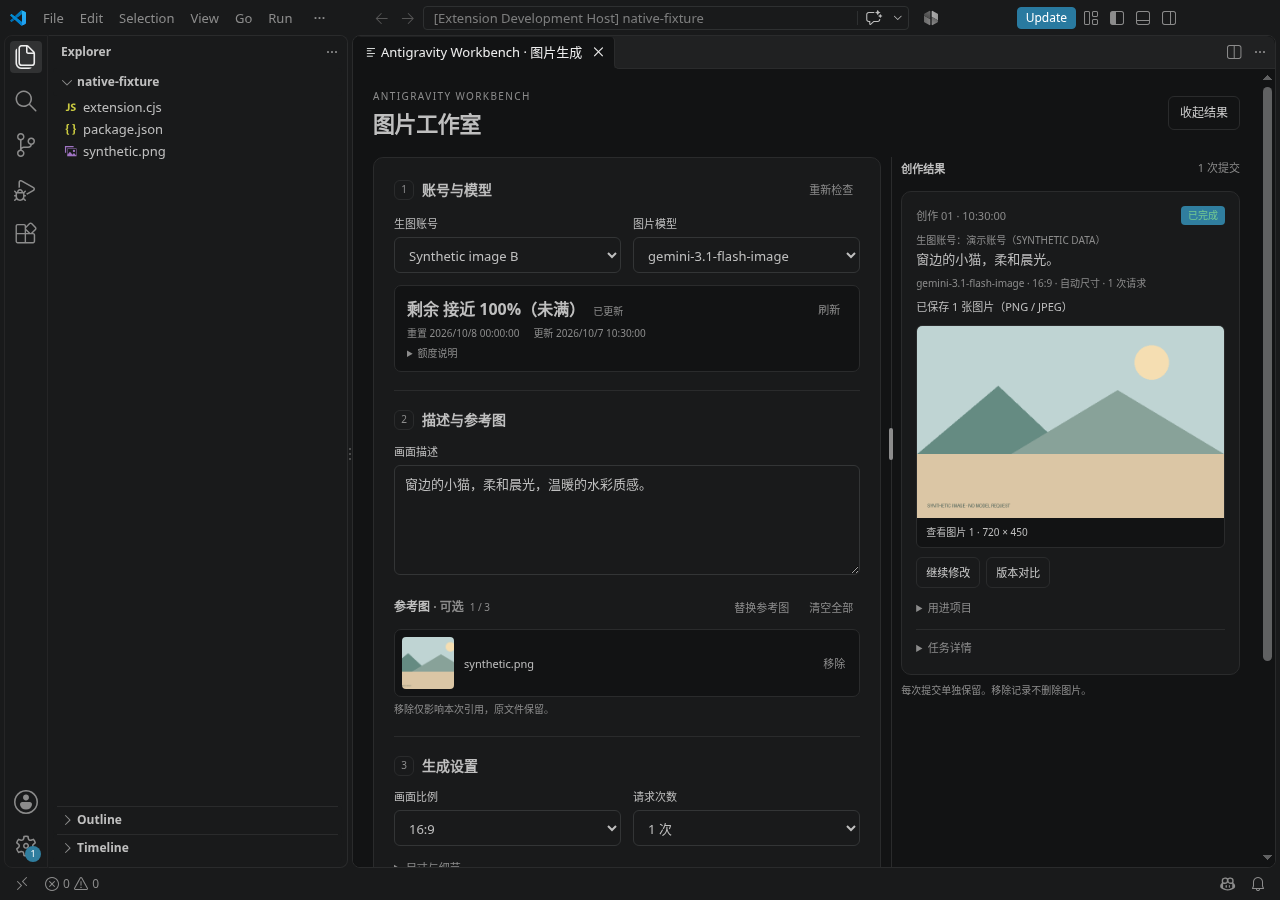
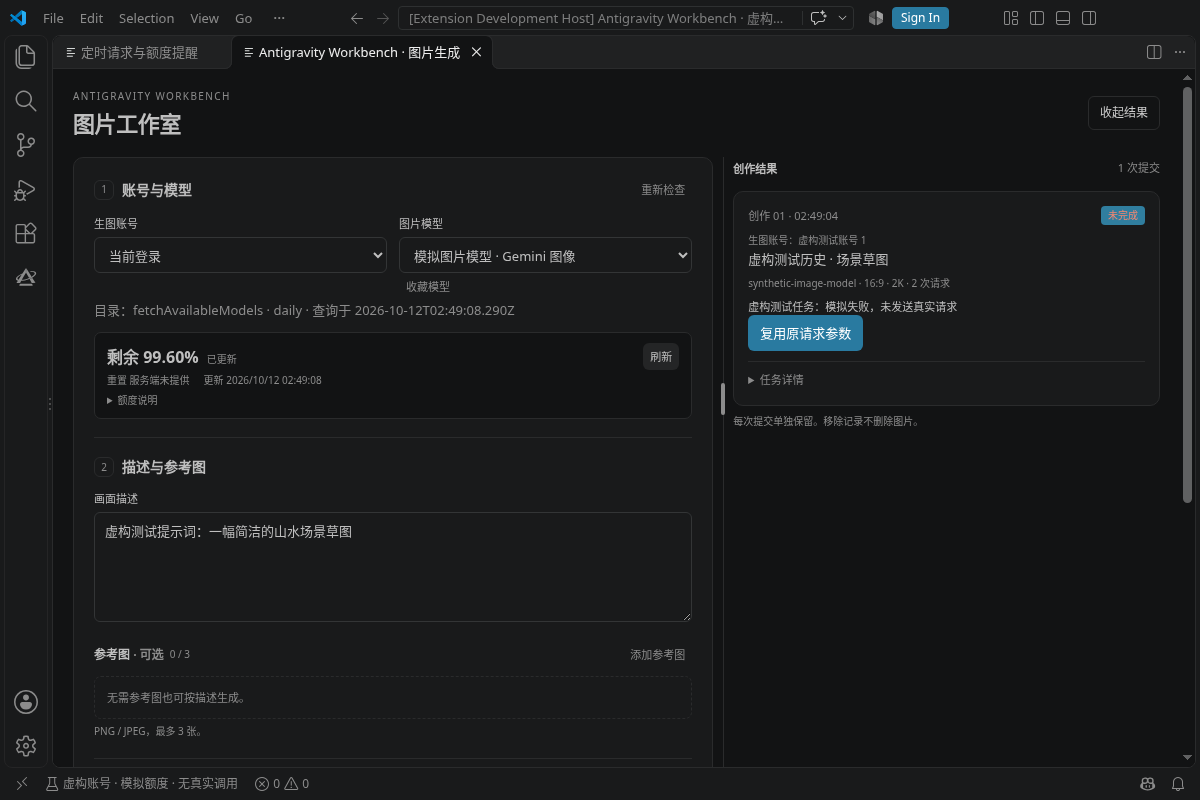
release: prepare 0.1.13 with records guide and current screenshots

diff --git a/src/direct-image-protocol.ts b/src/direct-image-protocol.ts
@@ -3,7 +3,7 @@ import { randomUUID } from 'node:crypto';
 
 /** Independently implemented wire contract; no upstream source or catalogue is bundled. */
 export type ImageEndpoint = 'production' | 'daily';
-export const IMAGE_HTTP_USER_AGENT = 'Antigravity-Workbench/0.1.12';
+export const IMAGE_HTTP_USER_AGENT = 'Antigravity-Workbench/0.1.13';
 export function imageEndpoint(value: unknown = 'daily'): ImageEndpoint {
   if (value !== 'production' && value !== 'daily') throw new Error('IMAGE_DIRECT_ENDPOINT_INVALID');
   return value;

diff --git a/src/account-model-catalog.ts b/src/account-model-catalog.ts
@@ -4,7 +4,7 @@ import type { IncomingMessage } from 'node:http';
 import { LiveError } from './live-storage';
 import { validImageProject } from './direct-image-project';
 import { cloudCodeHost, type CloudCodeEndpoint } from './cloudcode-service';
-const HTTP_USER_AGENT = 'Antigravity-Workbench/0.1.12';
+const HTTP_USER_AGENT = 'Antigravity-Workbench/0.1.13';
 
 const PATH = '/v1internal:fetchAvailableModels';
 const RESPONSE_LIMIT = 2 * 1024 * 1024;

diff --git a/scripts/verify-release.py b/scripts/verify-release.py
@@ -40,7 +40,7 @@ def verify(vsix, source=None):
     package = json.loads((ROOT / 'package.json').read_text(encoding='utf-8'))
     lock = json.loads((ROOT / 'package-lock.json').read_text(encoding='utf-8'))
     version = package['version']
-    assert version == lock['version'] == lock['packages']['']['version'] == '0.1.12'
+    assert version == lock['version'] == lock['packages']['']['version'] == '0.1.13'
     third_party_notices = verify_license_notices(package, lock)
     assert package['icon'] == 'media/icon.png'
     assert package['contributes']['viewsContainers']['activitybar'][0]['icon'] == 'media/workbench.svg'
@@ -96,6 +96,14 @@ def verify(vsix, source=None):
                         source_name = {'extension/readme.md': 'README.md', 'extension/changelog.md': 'CHANGELOG.md'}.get(member, member.removeprefix('extension/'))
                         expected = package_docs.rewrite_document((ROOT / source_name).read_bytes(), member, commit)
                         assert archive.read(member) == expected, f'Documentation differs from source commit: {member}'
+                # README screenshots must be shipped with the exact reviewed bytes.
+                for readme in ['README.md', 'README_EN.md']:
+                    for image in re.findall(r'<img[^>]+src="([^"]+)"', (ROOT / readme).read_text(encoding='utf-8')):
+                        if image.startswith('https://'):
+                            continue
+                        member = 'extension/' + image
+                        assert member in archive.namelist(), f'Missing README screenshot: {image}'
+                        assert archive.read(member) == (ROOT / image).read_bytes(), f'Changed README screenshot: {image}'
                 result['documentation_commit'] = commit
                 activity_icon = archive.read('extension/media/workbench.svg')
                 assert activity_icon == (ROOT / 'media/workbench.svg').read_bytes()

diff --git a/scripts/cleanup-release-branch.py b/scripts/cleanup-release-branch.py
@@ -1,4 +1,4 @@
-"""Remove only this release's merged model catalog branch, with an atomic Git lease."""
+"""Remove only this release's merged records branch, with an atomic Git lease."""
 import importlib.util
 import json
 import os
@@ -11,7 +11,7 @@ publish = importlib.util.module_from_spec(spec)
 spec.loader.exec_module(publish)
 api = publish.api
 run = publish.run
-BRANCH = 'refactor/server-model-catalog'
+BRANCH = 'feat/request-model-evidence'
 REF = 'refs/heads/' + BRANCH
 
 

diff --git a/README_EN.md b/README_EN.md
@@ -4,7 +4,7 @@
 
 <h1 align="center">Antigravity Workbench</h1>
 
-<p align="center">Manage Google Antigravity accounts, check quota and create images in VS Code.</p>
+<p align="center">Manage Google Antigravity accounts, check quota and token usage and create images in VS Code.</p>
 
 <p align="center"><strong>Open source · MIT License</strong></p>
 
@@ -17,7 +17,7 @@
   <a href="https://github.com/XiaoXinCodes/antigravity-workbench/issues">Report an issue</a>
 </p>
 
-Workbench brings accounts, quotas and image creation into one VS Code workbench: compare model quotas across accounts, choose an image account independently and continue from history. Enable quota alerts and scheduled requests when you need them.
+Workbench brings accounts, quotas and image creation into one VS Code workbench: compare model quotas across accounts, choose an image account independently and continue from history. Read local model and token records, filter usage by time, model and project, and export results. Enable quota alerts and scheduled requests when you need them.
 
 This project is independently developed and is not affiliated with, authorized by or endorsed by Google. Available models, permissions and quota depend on the selected account's server responses.
 
@@ -55,6 +55,7 @@ If Marketplace is unavailable, download the `.vsix` attachment from the [latest 
 | Creation history and reuse | Restore drafts and task cards, reuse historical request parameters, continue editing and compare versions; missing references are flagged and interrupted tasks are not resent automatically |
 | Use in your project | Preview PNG/JPEG, copy paths or Markdown, insert into the editor or copy images into the project; originals are kept, insertion does not save, and copying does not overwrite |
 | Optional alerts and scheduled requests | Disabled by default; low, exhausted and recovered quota alerts, plus text requests on daily/weekly, interval, five-field cron or confirmed full-quota recovery triggers |
+| Model and token records | Read local records on demand; see usage totals and the record list together, filter by time, returned model and project, inspect daily trends and export CSV / JSON |
 | Shared interface language | Manually choose Simplified Chinese or English globally; Chinese is the default and account, image, history and automation pages update immediately |
 
 ## Getting started
@@ -84,6 +85,14 @@ Unknown quota stays unknown, and older readings retain their query time. Family 
 
 Drafts and task cards stay on the current host and return after reload. Existing images can be recovered without generating them again. Normal use needs no endpoint configuration; failed image requests do not automatically retry, switch accounts or change endpoints. See [image generation](docs/IMAGE_GENERATION.md) and [project actions](docs/IMAGE_RESULTS.md) (Chinese).
 
+### View model and token records
+
+1. Select **Model and token records** in the workbench, then **Read local records**. The first read shows all read records, with usage totals and the list on one page.
+2. Filter by time, returned model and project. Expand daily trends or a record for details. **Refresh records** preserves the selected time range and available filters.
+3. Choose CSV or JSON and select **Export filtered results**. If a period is empty, **View all records** restores the list.
+
+Dates use your local timezone. Missing tokens or model names remain **Not provided**, rather than zero. Returned models are declarations in server responses or local records and cannot prove the underlying model; image and scheduled-task details also retain returned model names when provided. Reading and exporting send no model requests. See [records and usage](docs/REQUEST_MODEL_OBSERVATIONS.md).
+
 ### Enable alerts and scheduled requests when needed
 
 Open **Manage scheduled requests and alerts** to select low, exhausted or recovered quota alerts. Text requests use a chosen account, model and timezone, with daily/weekly, interval or five-field cron schedules. They can also run when the server reports a transition from partial quota to exactly full quota.
@@ -98,19 +107,23 @@ Screenshots show actual Chromium / VS Code rendering with fictional accounts, mo
 
 Add and save share a toolbar, and the current login is clearly marked. Refresh an account to see remaining fractions, reset times and query time; compare, sort and batch-refresh accounts in the quota overview. Accounts and percentages below are demonstration values.
 
-<img src="docs/images/accounts-en.png" width="410" alt="English account workbench with grouped Add and Saved buttons, current-login badge and mock model quota">
+<img src="docs/images/accounts-en.png" width="440" alt="English account workbench with Add and Save actions, login status and mock model quota">
+
+### Model and token records
+
+Select **Read local records** to see totals and records on one page, with filters and CSV / JSON export at the top. Expand trends and details when needed.
+
+<img src="docs/images/usage-records-en.png" width="960" alt="English model and token records with all records, usage totals, a visible list, time model and project filters and export">
+
+An empty period explains why no records match and offers **View all records** to restore the list.
+
+<img src="docs/images/usage-empty-period-en.png" width="960" alt="English empty period with a clear explanation and View all records action">
 
 ### Image studio
 
 Select an independent image account and a model from its server catalog, then prepare a prompt, references and parameters. Submission requires confirmation. Creation history stays on the right for parameter reuse and continued editing. Image quota percentages are not converted into image counts.
 
-<img src="docs/images/image-studio-en.png" width="960" alt="English image studio with independent account selection, mock model quota, references and saved demonstration result">
-
-### Clear references and continue creating
-
-Remove references individually or clear them all. The screenshot below follows the actual host's clear action: current references are gone, while original files and saved results remain available for continued editing.
-
-<img src="docs/images/image-studio-cleared-en.png" width="960" alt="English image studio after clearing references, with saved results and original images retained">
+<img src="docs/images/image-studio-en.png" width="960" alt="English image studio with independent account selection, mock model quota and synthetic task history">
 
 ## Interface language
 
@@ -120,9 +133,9 @@ Command Palette entries, view titles and setting descriptions follow VS Code's d
 
 ### Model catalogs and upgrades
 
-New models appear when the selected account and endpoint catalog refreshes, without a plugin model-list update. The image picker includes only available members of the explicit server image list. Image members cannot receive scheduled text requests. Unknown conversation roles require explicit confirmation; names, image-input support and subscription labels are not role evidence. The picker shows the source and query time. Failed lookups retain the previous display and selection, while sending requires a fresh catalog check. Missing quota remains unknown.
+Models follow the selected account's server catalog, without waiting for a plugin update. Failed queries keep the selection and previous results; missing entries or quota do not establish lack of permission. The image studio uses models explicitly listed for images by the server.
 
-Upgrades retain accounts, image history, favorites, drafts and scheduled model IDs without switching to the first choice. Existing scheduled tasks continue when the server identifies their conversation role. If their role remains unknown, edit the task and confirm ordinary text use. Confirmation is scoped to that task’s account, endpoint and model; it cannot override an image classification or disabled status. See [the audit and data limits](docs/MODEL_CATALOG_REFACTOR.md) (Chinese).
+Upgrades preserve accounts, image history, favorites, drafts and scheduled tasks without replacing selected models. If an existing scheduled task asks for confirmation of its use, edit it and confirm ordinary text use. See [model catalogs](docs/MODEL_CATALOG_REFACTOR.md).
 
 ## FAQ
 

diff --git a/docs/REQUEST_MODEL_OBSERVATIONS.md b/docs/REQUEST_MODEL_OBSERVATIONS.md
@@ -1,4 +1,4 @@
-# Request model observations (candidate for 0.1.12)
+# Model and token records — 0.1.13
 
 The workbench records raw server model declarations; it cannot verify underlying weights or prove that an advertised backend actually served a request. No model aliases, pricing tables, catalog/display-name joins, cross-row fill, proxy or additional inference request are used.
 
@@ -71,10 +71,8 @@ Synthetic metadata and live synthetic WAL fixtures include native/WASM different
 
 On Windows, the synthetic SHM preservation check uses a read-only mapping to retain the whole-file hash while SQLite holds byte-range locks. The active-writer tests assert that the product opens only the original DB/WAL with read-only flags, never the original SHM. A source name disappearing after copying is classified as a changed source even when the held handle's timestamps do not change; the race test requires the intended mutation to succeed rather than accepting an unrelated I/O failure.
 
-## Reported local WSL acceptance
-
-A local acceptance report for commit `7398405624904d8613159be31c9162ab782c65d3` covered five actual Antigravity WSL databases and 132 metadata records: all had returned-model declarations, all requested-model fields remained missing, and no import was skipped or limited. Native/WASM comparison, repeated reads and cancellation passed; source DB hashes/attributes and extension data remained unchanged, private copies were cleaned up, and no inference requests were made. The installed adapter and 110 runtime files plus vendor/locale files were verified. These actual DBs had no WAL/SHM, so active WAL/SHM evidence is still from synthetic fixtures. This report predates the friendly-label candidate; its post-install UI acceptance remains separate.
-
 Windows race-fixture boundary: after the complete synthetic WAL has been copied, its Windows fixture handle is released and its old descriptor stat is retained while an actual on-disk replace/remove is performed. This models the stale-handle/name race; active-writer source access remains separately tested. It is not acceptance of a real official Windows active-WAL session.
 
-The acceptance owner subsequently reported a metadata-only check of the same five actual databases: 132 generation records, 265 steps, five trajectory rows, no skipped files. All 132 records supplied input/output/text-output; thinking output was present in 127, cache reads in 113, cache writes in none. All values were safe integers. Direct generation timestamps were absent in all 132, but every response ID uniquely matched a same-database step with valid created time. The five trajectory records had valid workspace URIs representing two distinct workspaces. This is independently reported source availability, not a claim that this environment reproduced private-session acceptance or that the new candidate has already passed it. The candidate still needs that owner's read-only real-session recheck after delivery.
+## Validation scope
+
+The actual production webview is checked with synthetic CLI/IDE databases in a separate VS Code profile: initial all-record reading, same-page totals and list, local-time filtering, empty-period recovery, refresh, pagination, export and Chinese/English rendering. Missing data remains explicit. These checks do not establish real backend model weights or every official producer/platform variant. See [0.1.13 validation scope](VALIDATION_0.1.13.md).

diff --git a/docs/VALIDATION_0.1.13.md b/docs/VALIDATION_0.1.13.md
@@ -1,0 +1,13 @@
+# 0.1.13 验证范围 / Validation scope
+
+用户可见变化见[发布说明](RELEASE_0.1.13.md)，字段与读取边界见[记录与用量说明](REQUEST_MODEL_OBSERVATIONS.md)。本版保留扩展 ID `xiaoxincodes.antigravity-account-manager`、MIT 许可及已有账号、图片、收藏、草稿和定时任务数据兼容。
+
+离线检查覆盖元数据字段、已知与缺失 Token、时间来源及本机时区边界、工作区识别、筛选、空结果恢复、分页和 CSV / JSON 导出。完整 Linux 检查有 1,647 项通过、4 项既有平台跳过；许可、发布安全及打包文档另有 8、34、5 项检查。最终精确提交和合并后的 main 均由三平台 CI 验证，状态以 [GitHub Actions](https://github.com/XiaoXinCodes/antigravity-workbench/actions/workflows/ci.yml) 为准。
+
+隔离 VS Code 使用合成 SQLite 数据、账号和阻断的模型传输验证 22 项实际界面检查，包括首次全部、同页概览与列表、空时段恢复、筛选保留、重复操作、长列表、窄窗口、导出和中英文同步。README 截图来自该实际界面，全部使用合成数据；不读取私人会话或真实凭据，不发送 Google 模型请求。
+
+发布流程核对 VSIX、源码、release-manifest.json 和 SHA256SUMS，上传后回下载比对全部资产字节，核验源提交及编译模块。正式发布后仅删除本次已合并的 `feat/request-model-evidence` 分支；验证其 PR、分支头和 main，拒绝未合并提交或并发更新。
+
+本轮不额外安装用户本机，也不上传 Marketplace。真实 Google 生成参数接受情况和各平台官方活动 WAL 等边界仍依赖实机环境，工程检查不证明底层模型权重。
+
+Offline checks and 22 actual VS Code UI checks use synthetic data and blocked model transports. CI validates the exact PR and merged main commits on Linux, Windows and macOS. All four release assets are downloaded and byte-compared before publication. Extension identity and saved data remain compatible. No extra local installation, real Google model request or Marketplace upload is part of this release.

diff --git a/docs/RELEASE_0.1.13.md b/docs/RELEASE_0.1.13.md
@@ -1,0 +1,25 @@
+# Antigravity Workbench 0.1.13
+
+## 简体中文
+
+模型与 Token 记录、用量概览和记录列表集中在同一页。
+
+- 手动读取本机记录，首次显示全部已读记录；刷新保留筛选选择。
+- 按时间、返回模型和项目筛选，查看每日趋势并导出 CSV / JSON。
+- 时段为空时提示原因并提供“查看全部”；窄窗口下列表保持清晰可读。
+- 图片和定时任务详情保留服务端提供的返回型号；改善定时任务结果保存。
+- 更新中英文使用说明和界面截图。升级保留账号、图片历史、收藏、草稿及定时任务。
+
+服务端未提供的 Token 或型号显示“未提供”。返回型号是服务端声明，不能证明底层实际模型。读取与导出不会发送模型请求。
+
+## English
+
+See model and token records, usage totals and the record list together on one page.
+
+- Read local records on demand, starting with all read records; refresh preserves filters.
+- Filter by time, returned model and project, inspect daily trends and export CSV / JSON.
+- Restore the list from an empty period with **View all records**; keep records readable in narrow windows.
+- Retain server-provided returned models in image and scheduled-task details; improve scheduled-result saving.
+- Update both READMEs and screenshots. Upgrades preserve accounts, image history, favorites, drafts and scheduled tasks.
+
+Missing tokens or models remain **Not provided**. Returned models are server declarations and cannot prove the underlying model. Reading and exporting send no model requests.

diff --git a/CHANGELOG_EN.md b/CHANGELOG_EN.md
@@ -4,6 +4,17 @@
 
 User-visible features and fixes in this repository's formal releases. Release dates use UTC.
 
+## [0.1.13](https://github.com/XiaoXinCodes/antigravity-workbench/releases/tag/v0.1.13) — 2026-10-12
+
+See model and token records, usage totals and the record list together on one page.
+
+- Start with all read records; preserve time, model and project filters on refresh.
+- Inspect daily trends and export CSV / JSON; restore all records from an empty period.
+- Keep server-declared returned models and provided token usage, leaving missing values unknown; keep narrow lists readable.
+- Improve scheduled-result saving and refresh both READMEs with real synthetic-data screenshots.
+
+[Release notes](docs/RELEASE_0.1.13.md) · [Validation scope](docs/VALIDATION_0.1.13.md)
+
 ## [0.1.12](https://github.com/XiaoXinCodes/antigravity-workbench/releases/tag/v0.1.12) — 2026-10-11
 
 Model selection follows the account's server catalog, so newly listed models appear without a plugin update.

diff --git a/CHANGELOG.md b/CHANGELOG.md
@@ -4,6 +4,17 @@
 
 记录本仓库正式发布版本中对用户可见的功能与修复。发布日期使用 UTC。
 
+## [0.1.13](https://github.com/XiaoXinCodes/antigravity-workbench/releases/tag/v0.1.13) — 2026-10-12
+
+模型与 Token 记录、用量概览和记录列表集中在同一页。
+
+- 首次读取显示全部已读记录；刷新保留时间、模型和项目筛选。
+- 查看每日趋势，导出筛选结果为 CSV / JSON；空时段可一键查看全部记录。
+- 保留服务端返回型号与已提供的 Token 用量，缺失值不算零；窄窗口保持列表可读。
+- 改善定时任务结果保存，更新中英文 README 和真实合成数据截图。
+
+[发布说明](docs/RELEASE_0.1.13.md) · [验证范围](docs/VALIDATION_0.1.13.md)
+
 ## [0.1.12](https://github.com/XiaoXinCodes/antigravity-workbench/releases/tag/v0.1.12) — 2026-10-11
 
 模型选择跟随账号的服务端目录，新增型号无需更新插件。

diff --git a/docs/README.md b/docs/README.md
@@ -15,6 +15,7 @@
 | 手动选择简体中文 / English、查找设置和命令入口 | [设置与命令](COMMANDS.md) · [本地化架构](LOCALIZATION.md) |
 | 保存日志、报告问题、处理常见错误 | [日志说明](DEBUG_LOGS.md) · [故障排查](TROUBLESHOOTING.md) |
 | 私下报告疑似安全漏洞 | [安全报告流程](../SECURITY.md) |
-| 了解能力边界与已验证范围 | [兼容性](COMPATIBILITY.md) · [验证范围](VALIDATION_0.1.12.md) |
+| 查看模型与 Token 记录、用量及筛选导出 | [记录与用量](REQUEST_MODEL_OBSERVATIONS.md) |
+| 了解能力边界与已验证范围 | [兼容性](COMPATIBILITY.md) · [验证范围](VALIDATION_0.1.13.md) |
 
 [最新发行说明](https://github.com/XiaoXinCodes/antigravity-workbench/releases/latest) · [项目与服务说明](PROJECT_NOTICES.md) · [返回项目首页](https://github.com/XiaoXinCodes/antigravity-workbench)
